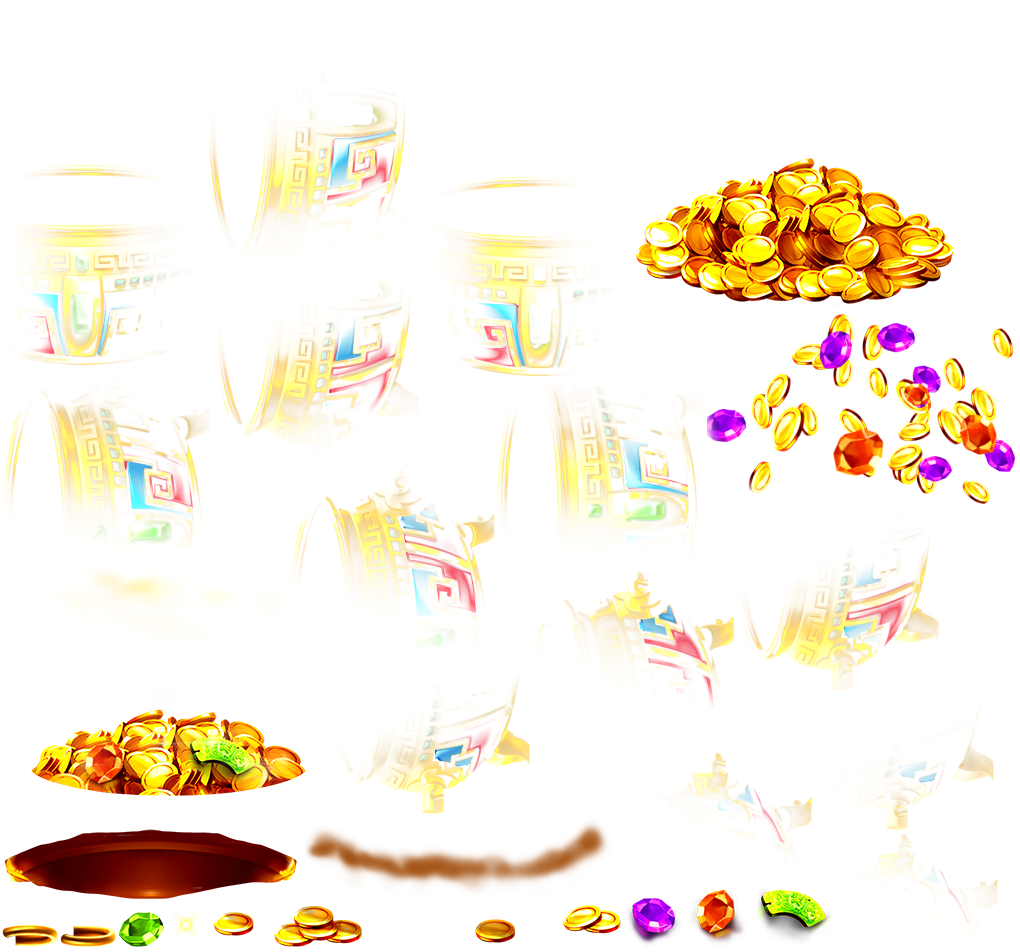
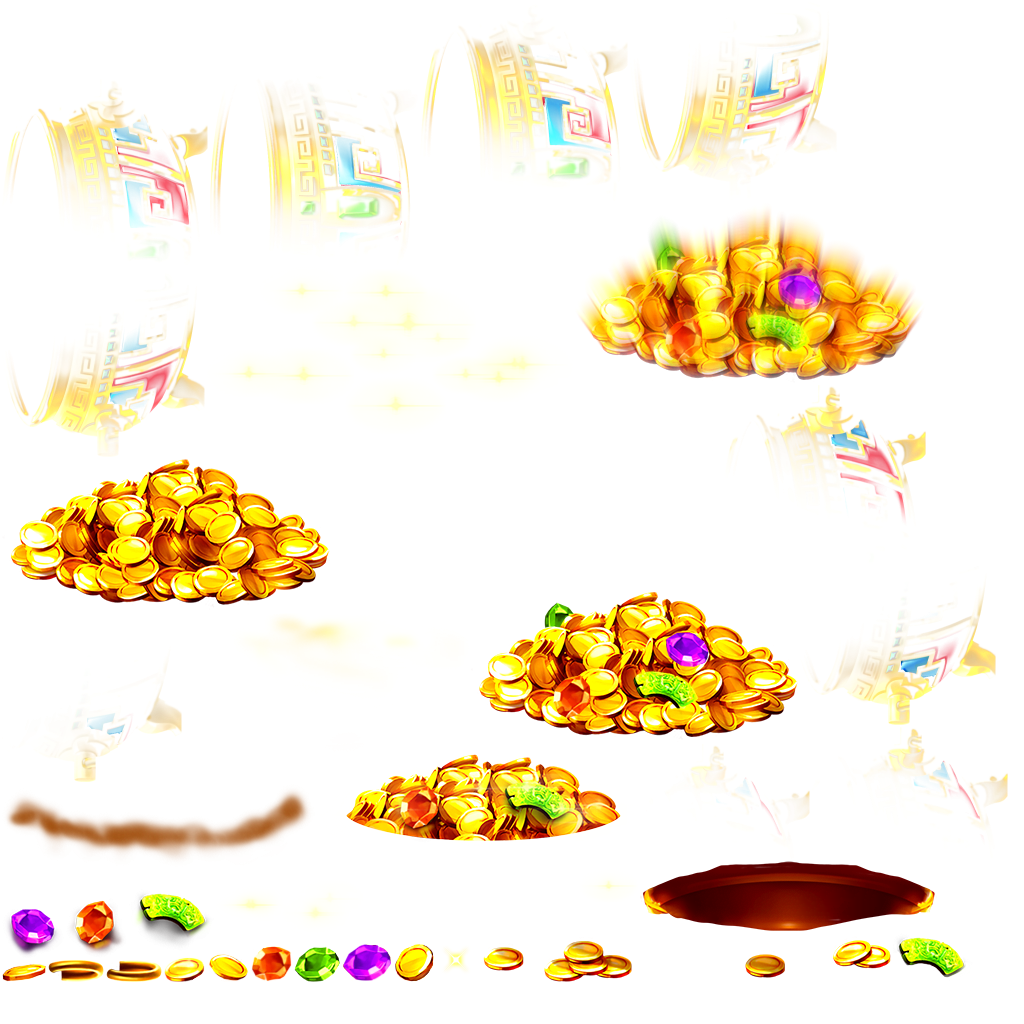
修正 symbol 模糊圖片，高分圖標錯誤的問題 新增 FG 得分的 Character 表演 更改視窗事件作法，改用visibility change 事件 修改 auto 選單文本(英文)

diff --git a/src/System/Assets/GameSpineManager.ts b/src/System/Assets/GameSpineManager.ts
@@ -167,7 +167,6 @@ export default class GameSpineManager{
 
     //#region Character
     private static character: Spine
-    private static characterTrack: TrackEntry
     
     /** 初始化主視覺角色 */
     public static initCharacter(){
@@ -189,7 +188,6 @@ export default class GameSpineManager{
 
     /** 清除角色 */
     public static clearCharacter(){
-        this.characterTrack = null
         this.character.setEmptyAnimations()
         this.character.parent?.removeChild(this.character)
     }
@@ -200,7 +198,7 @@ export default class GameSpineManager{
      */
     public static playNGCharacter(parent: Container){
         parent.addChild(this.character)
-        this.characterTrack = this.character.setAnimation('NG_Loop', true)
+        this.character.setAnimation('NG_Loop', true)
     }
 
     /**
@@ -209,19 +207,18 @@ export default class GameSpineManager{
      */
     public static playFGCharacter(parent: Container){
         parent.addChild(this.character)
-        this.characterTrack = this.character.setAnimation('FG_Loop', true)
+        this.character.setAnimation('FG_Loop', true)
     }
 
-    // /** 播放 FG 主視覺角色得獎演出 */
-    // public static playFGCharacterWin(){
-    //     this.characterTrack = this.character.setAnimation('FG_Win', true)
-    // }
+    /** 播放 FG 主視覺角色得獎演出 */
+    public static playFGCharacterWin(){
+        this.character.setAnimation('FG_Win', true)
+    }
 
-    // /** 結束播放 FG 主視覺角色得獎演出，並回覆loop狀態 */
-    // public static endFGCharacterWin(){
-    //     this.characterTrack.loop = false
-    //     this.character.addAnimation('FG_Loop', true)
-    // }
+    /** 結束播放 FG 主視覺角色得獎演出，並回覆loop狀態 */
+    public static endFGCharacterWin(){
+        this.character.addAnimation('FG_Loop', true)
+    }
     //#endregion Character
 
     //#region FG_Odds

diff --git a/src/Game/GameController/FG_GameController.ts b/src/Game/GameController/FG_GameController.ts
@@ -1,5 +1,5 @@
 import config from '@root/config'
-import { App, editConfig, eGameEventName, isWindowBlur } from "@root/src"
+import { App, editConfig, eGameEventName } from "@root/src"
 import GameAudioManager, { eAudioName } from '@root/src/System/Assets/GameAudioManager'
 import GameSpineManager from "@root/src/System/Assets/GameSpineManager"
 import GameSceneManager, { eGameScene } from "@root/src/System/GameSceneController"
@@ -67,7 +67,7 @@ class GameInit extends GameState{
         
         // 轉場提示動畫
         const setVolumeFn: Function = (flag: boolean) =>{       // 設定音量
-            if(isWindowBlur)    return
+            if(document.visibilityState != 'visible')   return  // 其實也不用，沒有在 visibility 時，gsap 也不會更新
             EventHandler.dispatch(eEventName.setMusicVolume, {volume: flag? .4: 1})
         }
 
@@ -235,7 +235,7 @@ class EndSpin extends GameState{
     exit(){
         EventHandler.dispatch(eGameEventName.activeBlackCover, {flag: false})
         LineManager.StopEachLineFn()
-        // GameSpineManager.endFGCharacterWin()
+        GameSpineManager.endFGCharacterWin()
     }
 
     /**

diff --git a/src/index.ts b/src/index.ts
@@ -61,17 +61,13 @@ EventHandler.on(eEventName.orientationChange, ()=> {
 })
 
 // 註冊視窗事件
-export let isWindowBlur: boolean                    // 紀錄目前是否不是在focus狀態
-const focusEvent: Function = (flag: boolean) =>{
-    isWindowBlur = !flag
+window.addEventListener('visibilitychange', ()=>{
     if(SystemErrorManager.IsError)
         return
-    const context: {volume: number} = {volume: flag? 1: 0}
+    const context: {volume: number} = {volume: document.visibilityState == 'visible'? 1: 0}
     EventHandler.dispatch(eEventName.setMusicVolume, context)
     EventHandler.dispatch(eEventName.setEffectVolume, context)
-}
-window.addEventListener('focus', focusEvent.bind(this, true))
-window.addEventListener('blur', focusEvent.bind(this, false))
+})
 
 export let editConfig: IEditConfig, gameConfig: IGameConfig
 // 遊戲入口

diff --git a/src/Game/Win/FGLotteryController.ts b/src/Game/Win/FGLotteryController.ts
@@ -1,4 +1,5 @@
 import { App, eGameEventName } from "@root/src"
+import GameSpineManager from "@root/src/System/Assets/GameSpineManager"
 import GameSlotData from "../GameSlotData"
 import { LineManager } from "./LineManager"
 
@@ -50,7 +51,7 @@ class LotteryInit extends GameState{
 class LotteryAnim extends GameState{
 
     async enter(){
-        // GameSpineManager.playFGCharacterWin()        // 播放主視覺得分演出
+        GameSpineManager.playFGCharacterWin()        // 播放主視覺得分演出
 
         const {win, winlineInfos} = FGLotteryController
         await BigWinManager.playBigWin(App.stage, BetModel.getInstance().TotalBet, win)     // 先演大獎
